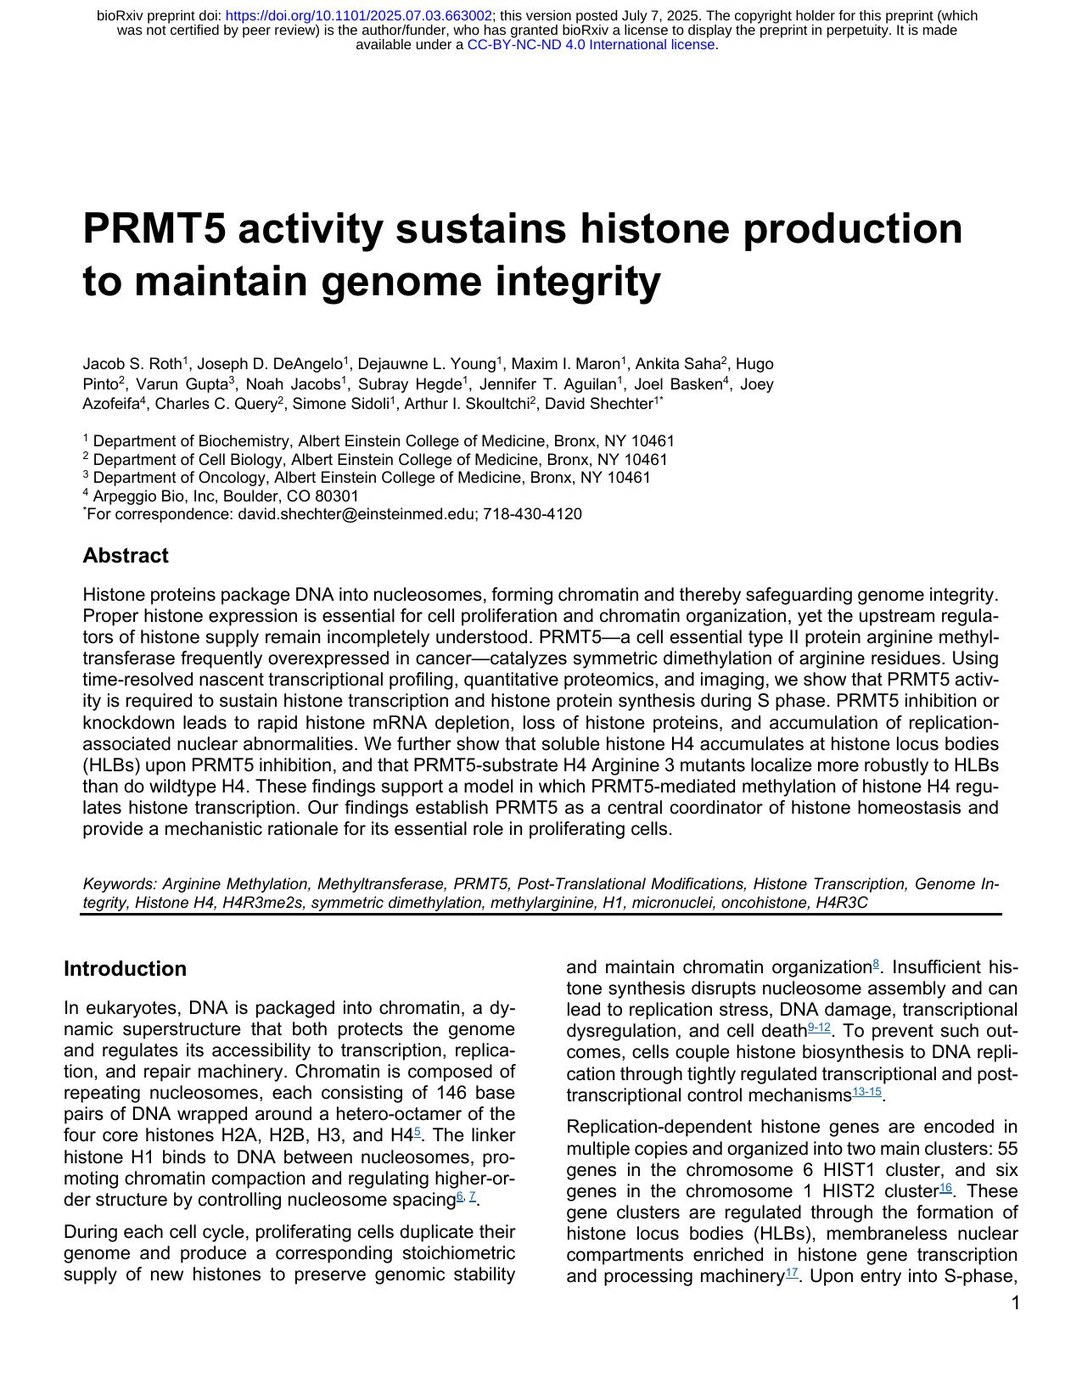
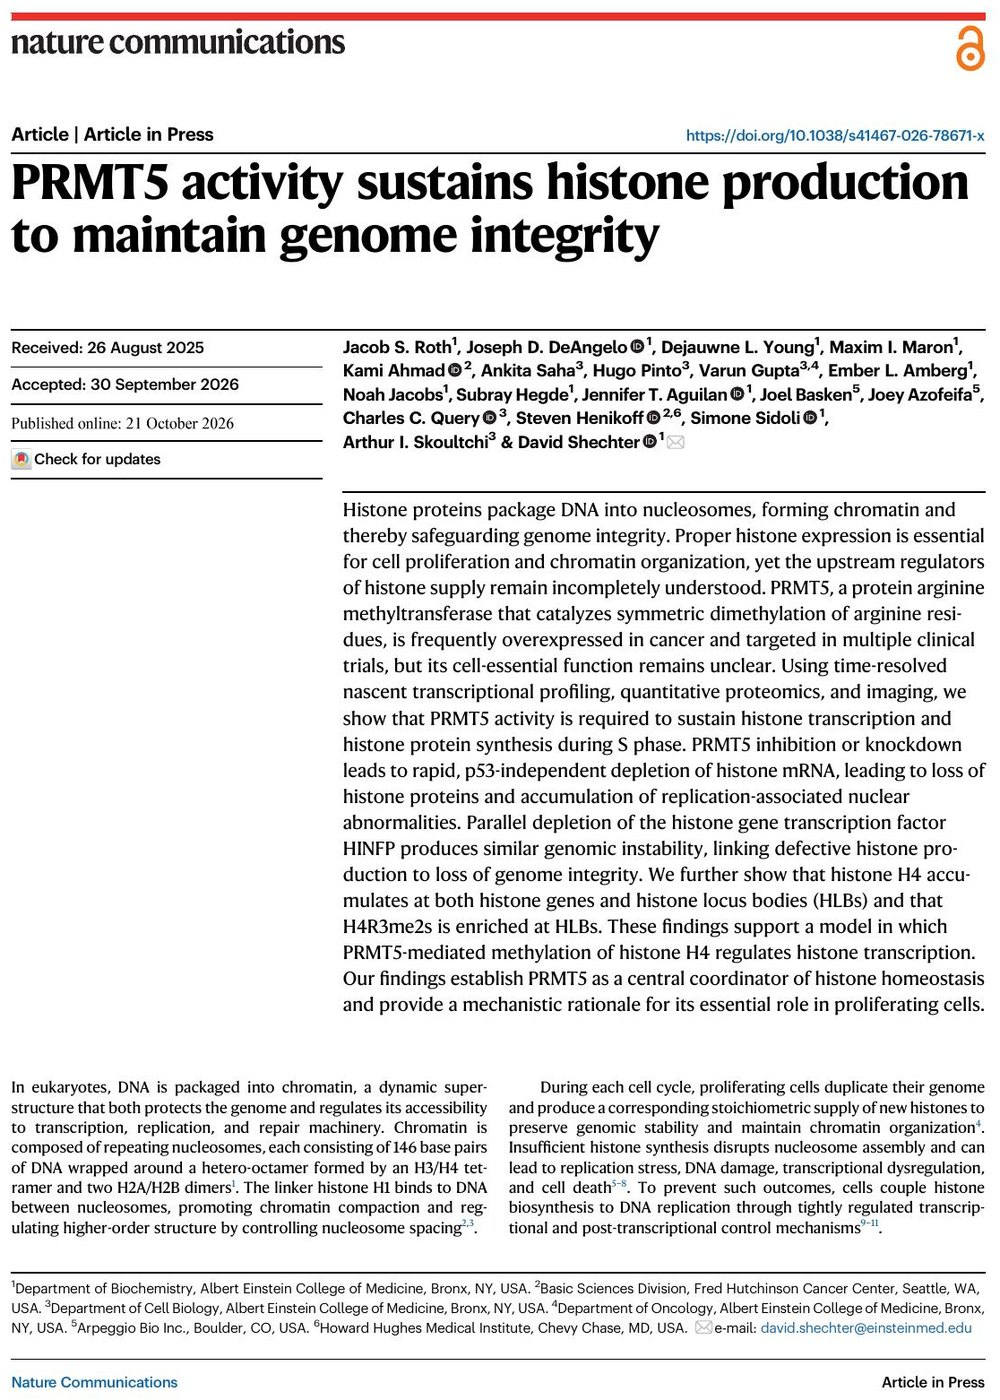
Roth et al. published in Nature Communications; Collaborative Work
The entry was still the bioRxiv preprint. It now carries the journal, the
article DOI, the published abstract, and 21 October 2026 as its date, so it
sits at the top of Primary Research rather than under Preprints. Its cover
is page 1 of the published paper.

Three authors the preprint did not list are added in published order: Kami
Ahmad, Ember L. Amberg and Steven Henikoff. No volume or article number
yet — Crossref has none and the PDF is marked Article in Press — so the
citation stops at the journal; worth completing when Nature assigns them.

The slug stays prmt5-histone-production-2025 even though the paper is a
2026 publication: Lab History, the news posts and the proteomics table on
Resources all link to that URL.

Also renames the fourth section to Collaborative Work, anchor and all, and
updates the Lab History line that still said provisionally accepted.

Claude-Session: https://claude.ai/code/session_01NuFSWVmeTMhMFaAHazW6f5

diff --git a/layouts/publications/list.html b/layouts/publications/list.html
@@ -2,7 +2,7 @@
   Publications list page — overrides the generic Hugo Blox
   layouts/list.html (vendored) for this section only, so it can:
     - separate preprints from published articles
-    - split published articles into Primary Research / Co-authored Work /
+    - split published articles into Primary Research / Collaborative Work /
       Reviews & Commentary, based on each page's `pub_category` param
       (lab | coauthored | review — defaults to "lab" if unset)
     - group each of those sections under year headings
@@ -54,7 +54,7 @@
       {{ if gt (len $labPapers) 0 }}<a href="#primary-research" class="text-primary-600 dark:text-primary-400 hover:underline">Primary Research</a>{{ end }}
       {{ if gt (len $reviews) 0 }}<a href="#reviews-commentary" class="text-primary-600 dark:text-primary-400 hover:underline">Reviews &amp; Commentary</a>{{ end }}
       {{ if gt (len $preprints) 0 }}<a href="#preprints" class="text-primary-600 dark:text-primary-400 hover:underline">Preprints</a>{{ end }}
-      {{ if gt (len $coauthored) 0 }}<a href="#coauthored-work" class="text-primary-600 dark:text-primary-400 hover:underline">Co-authored Work</a>{{ end }}
+      {{ if gt (len $coauthored) 0 }}<a href="#collaborative-work" class="text-primary-600 dark:text-primary-400 hover:underline">Collaborative Work</a>{{ end }}
     </nav>
 
     {{ if gt (len $labPapers) 0 }}
@@ -91,7 +91,7 @@
     {{ end }}
 
     {{ if gt (len $coauthored) 0 }}
-    <h2 id="coauthored-work" class="text-2xl font-bold text-gray-900 dark:text-white mt-12 mb-4 pb-2 border-b border-gray-200 dark:border-gray-700 scroll-mt-24">Co-authored Work</h2>
+    <h2 id="collaborative-work" class="text-2xl font-bold text-gray-900 dark:text-white mt-12 mb-4 pb-2 border-b border-gray-200 dark:border-gray-700 scroll-mt-24">Collaborative Work</h2>
     {{ $currentYear := "" }}
     {{ range $coauthored }}
       {{ $year := .Date.Format "2006" }}

diff --git a/content/publications/prmt5-histone-production-2025/index.md b/content/publications/prmt5-histone-production-2025/index.md
@@ -5,24 +5,27 @@ authors:
 - "Joseph DeAngelo"
 - "Dejauwne L. Young"
 - "Maxim Maron"
+- "Kami Ahmad"
 - "Ankita Saha"
 - "Hugo Pinto"
 - "Varun Gupta"
+- "Ember L. Amberg"
 - "Noah Jacobs"
 - "Subray Hegde"
 - "Jennifer T. Aguilan"
 - "Joel Basken"
 - "Joey Azofeifa"
 - "Charles C. Query"
+- "Steven Henikoff"
 - "Simone Sidoli"
 - "Arthur I. Skoultchi"
 - "David Shechter"
-date: "2025-07-03T00:00:00Z"
-publishDate: "2025-07-03T00:00:00Z"
-publication_types: ["article"]
+date: "2026-10-21T00:00:00Z"
+publishDate: "2026-10-21T00:00:00Z"
+publication_types: ["article-journal"]
 pub_category: lab
-publication: "*bioRxiv* (provisionally accepted at Nature Communications)"
-abstract: "Histone proteins package DNA into nucleosomes, forming chromatin and safeguarding genome integrity. Proper histone expression is essential for cell proliferation and chromatin organization, yet the upstream regulators of histone supply remain incompletely understood. PRMT5, a cell-essential type II protein arginine methyltransferase frequently overexpressed in cancer, catalyzes symmetric dimethylation of arginine residues. Using time-resolved nascent transcriptional profiling, quantitative proteomics, and imaging, we show that PRMT5 activity is required to sustain histone transcription and histone protein synthesis during S phase. PRMT5 inhibition or knockdown leads to rapid histone mRNA depletion, loss of histone proteins, and accumulation of replication-associated nuclear abnormalities, supporting a model in which PRMT5-mediated methylation of histone H4 regulates histone transcription and, in turn, genome integrity."
+publication: "*Nature Communications*"
+abstract: "Histone proteins package DNA into nucleosomes, forming chromatin and thereby safeguarding genome integrity. Proper histone expression is essential for cell proliferation and chromatin organization, yet the upstream regulators of histone supply remain incompletely understood. PRMT5, a protein arginine methyltransferase that catalyzes symmetric dimethylation of arginine residues, is frequently overexpressed in cancer and targeted in multiple clinical trials, but its cell-essential function remains unclear. Using time-resolved nascent transcriptional profiling, quantitative proteomics, and imaging, we show that PRMT5 activity is required to sustain histone transcription and histone protein synthesis during S phase. PRMT5 inhibition or knockdown leads to rapid, p53-independent depletion of histone mRNA, leading to loss of histone proteins and accumulation of replication-associated nuclear abnormalities. Parallel depletion of the histone gene transcription factor HINFP produces similar genomic instability, linking defective histone production to loss of genome integrity. We further show that histone H4 accumulates at both histone genes and histone locus bodies (HLBs) and that H4R3me2s is enriched at HLBs. These findings support a model in which PRMT5-mediated methylation of histone H4 regulates histone transcription. Our findings establish PRMT5 as a central coordinator of histone homeostasis and provide a mechanistic rationale for its essential role in proliferating cells."
 summary: "Defines PRMT5-dependent H4 methylation as a metabolic gate for histone supply and genome packaging. Featured in a Nature Structural & Molecular Biology News & Views."
 tags:
 - Chromatin
@@ -30,7 +33,10 @@ tags:
 - Genome integrity
 featured: true
 links:
-- name: bioRxiv
+- name: Article
+  type: doi
+  url: https://doi.org/10.1038/s41467-026-78671-x
+- name: bioRxiv preprint
   type: preprint
   url: https://doi.org/10.1101/2025.07.03.663002
 image:

diff --git a/content/history.md b/content/history.md
@@ -57,7 +57,7 @@ sections:
 
         ## 2026
 
-        [Haeun Kim](/authors/haeun-kim/) (PhD, PRMT9/TDP-43/ALS) and [Liana Valin](/authors/liana-valin/) (MSTP) join the lab. [Isaac Kraz](/authors/isaac-kraz/) and collaborators publish the [GNMT N-terminus paper](/publications/gnmt-folate-methyl-donor-2026/) in the *Journal of Biological Chemistry* (first posted on bioRxiv in May), framing GNMT as the supply-side regulator in the methyl economy. [Jacob Roth](/authors/jacob-roth/)'s paper on [PRMT5-dependent histone production](/publications/prmt5-histone-production-2025/) is provisionally accepted at *Nature Communications*, with a *Nature Structural and Molecular Biology* News and Views. The [TTLL4/NPM1c AML paper](/publications/ttll4-aml-preprint-2025/) is also under revision at *Nature Communications*.
+        [Haeun Kim](/authors/haeun-kim/) (PhD, PRMT9/TDP-43/ALS) and [Liana Valin](/authors/liana-valin/) (MSTP) join the lab. [Isaac Kraz](/authors/isaac-kraz/) and collaborators publish the [GNMT N-terminus paper](/publications/gnmt-folate-methyl-donor-2026/) in the *Journal of Biological Chemistry* (first posted on bioRxiv in May), framing GNMT as the supply-side regulator in the methyl economy. [Jacob Roth](/authors/jacob-roth/)'s paper on [PRMT5-dependent histone production](/publications/prmt5-histone-production-2025/) is published in *Nature Communications*, with a *Nature Structural and Molecular Biology* News and Views. The [TTLL4/NPM1c AML paper](/publications/ttll4-aml-preprint-2025/) is also under revision at *Nature Communications*.
 
         ## 2025
 

diff --git a/content/news/2026-10-roth-published.md b/content/news/2026-10-roth-published.md
@@ -1,0 +1,15 @@
+---
+title: "Published: PRMT5 activity sustains histone production to maintain genome integrity"
+date: 2026-10-21
+tags: [Publication]
+summary: "Roth et al. is out in Nature Communications. PRMT5 activity is required to sustain histone transcription and histone protein synthesis during S phase."
+image:
+  filename: "publications/prmt5-histone-production-2025-first-page.jpg"
+  focal_point: Top
+---
+
+[Jacob Roth](/authors/jacob-roth/) and colleagues' paper on [PRMT5-dependent histone production](/publications/prmt5-histone-production-2025/) is published in *Nature Communications*, after [provisional acceptance](/news/2026-08-roth-provisionally-accepted/) in August.
+
+PRMT5 activity sustains histone transcription and histone protein synthesis during S phase. Inhibiting or knocking down PRMT5 depletes histone mRNA rapidly and independently of p53, costing the cell its histone proteins and leaving replication-associated nuclear abnormalities behind. Depleting the histone gene transcription factor HINFP does much the same, tying defective histone production to loss of genome integrity. Histone H4 accumulates at histone genes and at histone locus bodies, where H4R3me2s is enriched — placing PRMT5 at the center of histone homeostasis and giving a mechanistic reason for its essential role in proliferating cells.
+
+[Read the paper →](https://doi.org/10.1038/s41467-026-78671-x)
